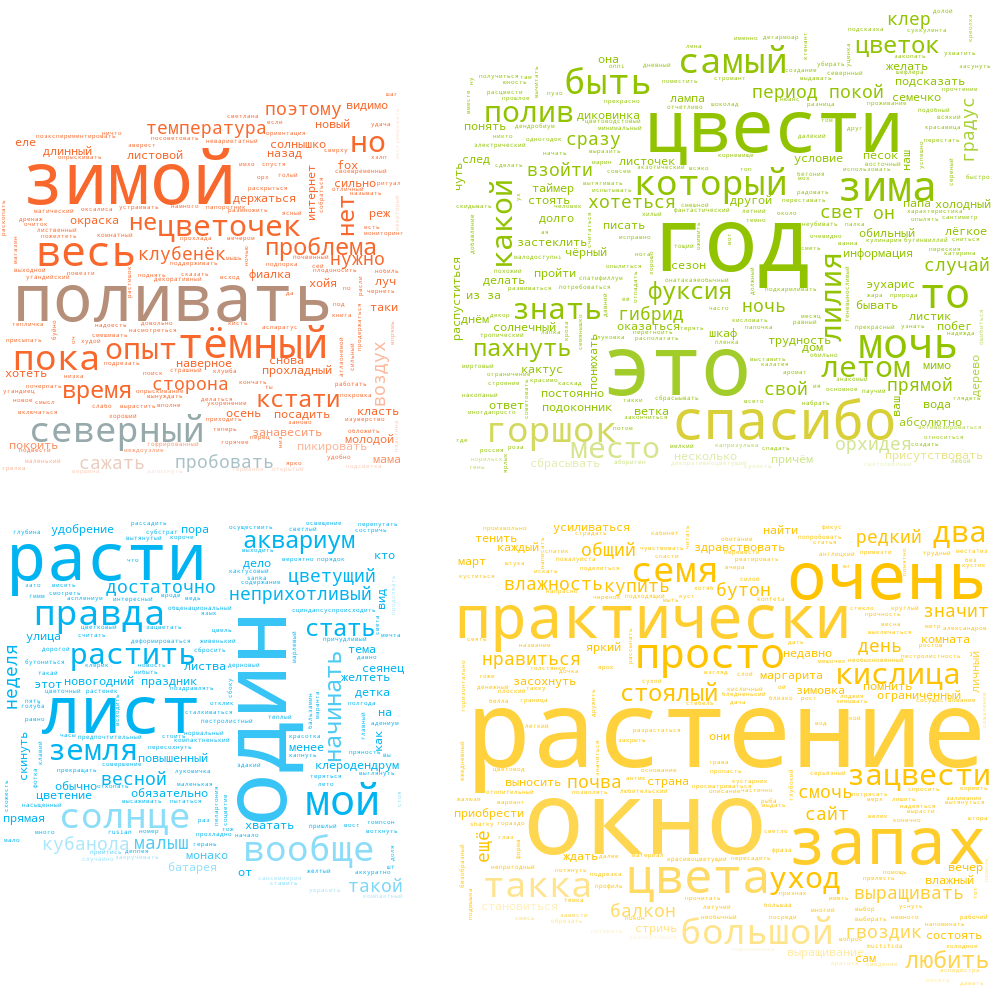
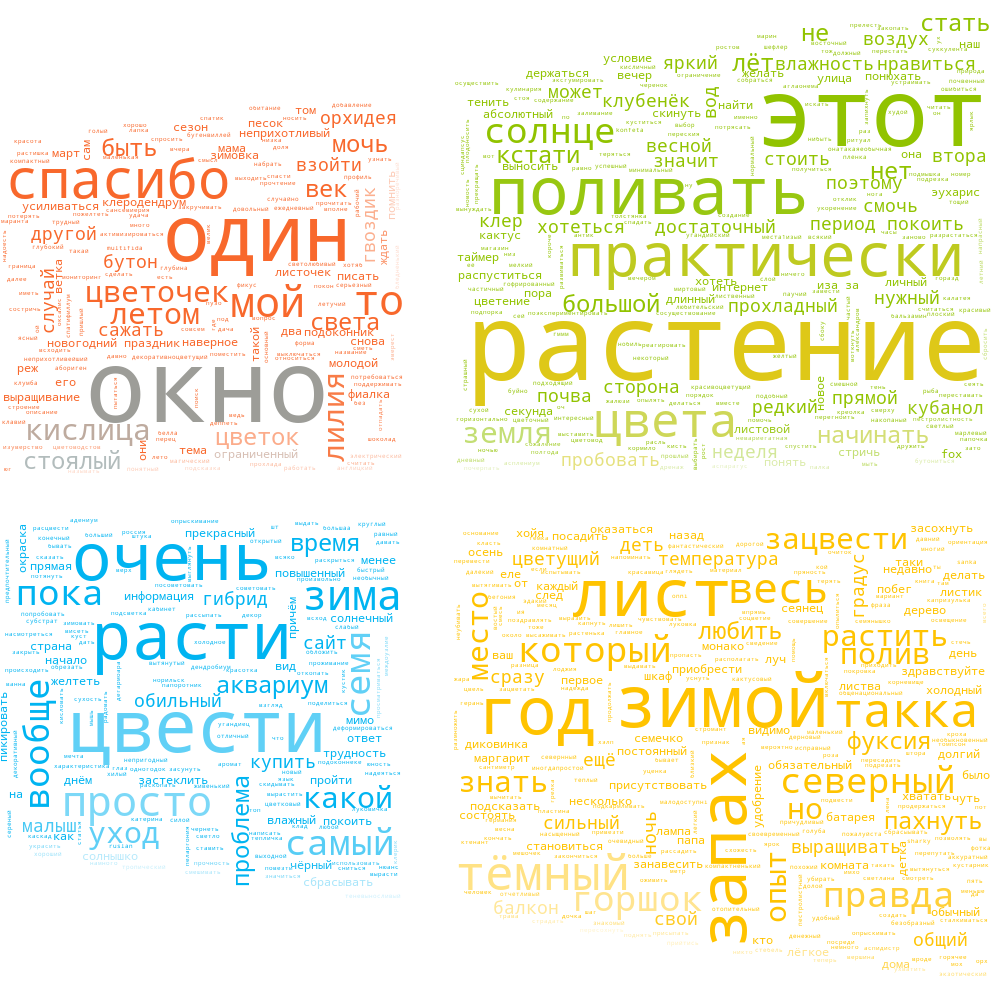
fix morph

diff --git a/services/normalization_service.py b/services/normalization_service.py
@@ -19,7 +19,7 @@ def to_basic_morph(text):
     word_list = trimmed_text.split()
     morph = pymorphy2.MorphAnalyzer()
     for word in word_list:
-        normalized = morph.parse(word)[0]
+        normalized = sorted(morph.parse(word), key=lambda x: x.score)[0]
         basic_words.append(normalized.normal_form)
     return ' '.join(basic_words)
 
@@ -35,7 +35,7 @@ def remove_artifacts(post):
 
 
 def remove_stopwords(text, lang):
-    return ' '.join([word for word in text.split() if word not in (stopwords.words(lang))])
+    return ' '.join([word for word in text.split() if word not in (stopwords.words('russian'))])
 
 
 def normalize_text(text, language='russian'):
@@ -47,6 +47,6 @@ def normalize_text(text, language='russian'):
 
 def normalize_data(data):
     for idx, item in enumerate(data):
-        print("Processed %s" % idx)
+        # print("Processed %s" % idx)
         if (item != None):
             yield normalize_text(item)

diff --git a/main.py b/main.py
@@ -5,11 +5,9 @@ from db.driver.db_driver import *
 
 commentsDB = DBDriver("comments")
 data = commentsDB.get_all({'text': 1})[0:100]
-comment_list = []
-for record in data:
-    comment_list.append(record["text"])
+comment_list = [record["text"] for record in data]
 print("Fetched from DB")
-
 data = list(services.normalize_data(comment_list))
+
 print("Normalized")
 services.generate_cloud(data)
